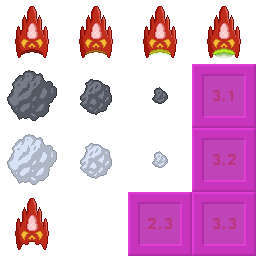
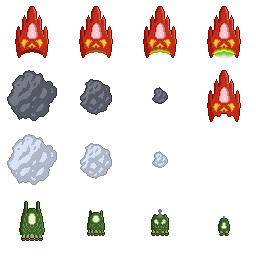
Partial implementation of targeting enemies

Changed region(s): [[0.5, 0.25, 1.0, 1.0], [0.0625, 0.7812, 0.1875, 0.9688], [0.3438, 0.8125, 0.4062, 0.9375]]

diff --git a/src/Game/Entities/Dynamic/Enemies/TargetingEnemy.java b/src/Game/Entities/Dynamic/Enemies/TargetingEnemy.java
@@ -1,0 +1,123 @@
+package Game.Entities.Dynamic.Enemies;
+
+import Game.Entities.Entity;
+import Game.Entities.EntityManager;
+
+public abstract class TargetingEnemy extends Enemy {
+// VARIABLES //
+    private static final double DEF_ROTATE_SPEED = 0.005 * Math.PI;
+
+    protected double rotationSpeed;
+    protected float distanceFromPlayer;
+    protected double directionToPlayer;
+
+
+// CONSTRUCTORS //
+    public TargetingEnemy(float x, float y, int w, int h, double direction) {
+        super(x, y, w, h, direction);
+        calcPlayerDistanceAndDirection();
+        rotationSpeed = DEF_ROTATE_SPEED;
+    }
+
+    public TargetingEnemy(float x, float y, int w, int h, double direction, double rotateSpeed) {
+        super(x, y, w, h, direction);
+        calcPlayerDistanceAndDirection();
+        rotationSpeed = rotateSpeed;
+    }
+
+// METHODS //
+    @Override
+    public void update() {
+        calcPlayerDistanceAndDirection();
+        rotateToPlayer();
+        setMoveSpeeds();
+        rotateSprite();
+    }
+
+    @Override
+    public void collide(Entity ec) {
+
+    }
+
+    private void rotateToPlayer() {
+        if(this.direction > (2 * Math.PI)) this.direction -= (2 * Math.PI);
+
+        // Don't need to do calculations if neither entities have moved
+        if(directionToPlayer == this.direction) return;
+
+        if((directionToPlayer > this.direction && directionToPlayer - this.direction < Math.PI) || ((this.direction - directionToPlayer) > Math.PI)) {
+            if(this.direction + rotationSpeed > directionToPlayer && !((this.direction - directionToPlayer) > Math.PI)) {
+                this.direction = directionToPlayer;
+            }
+            else this.direction += rotationSpeed;
+        } else {
+            if (this.direction - rotationSpeed < directionToPlayer) {
+                this.direction = directionToPlayer;
+            }
+            else this.direction -= rotationSpeed;
+        }
+    }
+
+    private void calcPlayerDistanceAndDirection() {
+        float distance;
+        double newDir = 0;
+
+        // Define point variables for easier function designing
+        float P1x = this.getXpos();
+        float P1y = this.getYpos();
+        float P2x = 0;
+        float P2y = 0;
+
+        if (EntityManager.get().getPlayer() != null) {
+            P2x = EntityManager.get().getPlayer().getXpos() + EntityManager.get().getPlayer().getWidth() / 2;
+            P2y = EntityManager.get().getPlayer().getYpos() + EntityManager.get().getPlayer().getHeight() / 2;
+        } else {
+            this.distanceFromPlayer = 1000;
+            return;
+        }
+
+        // Determine right-angled-triangle's opposite and adjacent lengths
+        float triangleX = Math.abs(P2x - P1x);
+        float triangleY = Math.abs(P2y - P1y);
+
+        // Calculate Hypotenuse (Distance from Player)
+        distance = (float) Math.sqrt((triangleX * triangleX) + (triangleY * triangleY));
+
+        // Set Distance
+        this.distanceFromPlayer = distance;
+
+        // Calculate Direction // --------------------------------------------------- //
+
+        // In the event tx = 0, don't do calculations
+        if(triangleX == 0) {
+            if(P1y > P2y) {
+                this.direction = Math.PI / 2;
+                return;
+            }
+            else {
+                this.direction = (3*Math.PI) / 2;
+                return;
+            }
+        }
+
+        // tan(theta) = (ty / tx), so theta = inversetan(ty / tx)
+        double theta = Math.atan(triangleY / triangleX);
+
+        // Determine direction depending on P1's location
+        if(P1x > P2x && P1y < P2y) { // Quadrant 1
+            newDir = Math.PI + theta;
+        }
+        else if(P1x < P2x && P1y < P2y) { // Quadrant 2
+            newDir = (2 * Math.PI) - theta;
+        }
+        else if(P1x < P2x && P1y > P2y) { // Quadrant 3
+            newDir = theta;
+        }
+        else if(P1x > P2x && P1y > P2y) { // Quadrant 4
+            newDir = Math.PI - theta;
+        }
+
+        // Set Direction
+        directionToPlayer = newDir;
+    }
+}

diff --git a/src/Game/Entities/EnemyDirector.java b/src/Game/Entities/EnemyDirector.java
@@ -3,6 +3,7 @@ package Game.Entities;
 import Game.Entities.Dynamic.DynamicEntity;
 import Game.Entities.Dynamic.Enemies.Asteroid;
 import Game.Entities.Dynamic.Enemies.Enemy;
+import Game.Entities.Dynamic.Enemies.GoblinPawn;
 import Game.Game;
 import Game.Data.Settings;
 import Game.Timer.*;
@@ -101,7 +102,7 @@ public class EnemyDirector implements iCanHaveCodeTimer, iCanHaveEnemyTimer {
         switch (code) {
             // LVL+ is the code for Start Next Level
             case "LVL+":
-                gameLevel++; // Increment Level
+                gameLevel+=5; // Increment Level
                 populateEnemies(); // Spawn Enemies
                 break;
         }
@@ -166,6 +167,16 @@ public class EnemyDirector implements iCanHaveCodeTimer, iCanHaveEnemyTimer {
                     spawn_queue.add(EnemyDirector.generateEnemyPosition(new Asteroid(0, 0, 3, 0, 2, true), Asteroid.DEFAULT_SIZE));
                     spawn_queue.add(EnemyDirector.generateEnemyPosition(new Asteroid(0, 0, 2, 0, 2, true), Asteroid.DEFAULT_SIZE));
                     spawn_queue.add(EnemyDirector.generateEnemyPosition(new Asteroid(0, 0, 1, 0, 3, true), Asteroid.DEFAULT_SIZE));
+                }
+                Collections.shuffle(spawn_queue);
+
+                spawn_queue_minsec = 45;
+                spawn_queue_maxsec = 3*60+30;
+                break;
+
+            case 5: // Level 5 //
+                for(int i = 0; i < 1; i++) {
+                    spawn_queue.add(EnemyDirector.generateEnemyPosition(new GoblinPawn(0, 0, 2), 64));
                 }
                 Collections.shuffle(spawn_queue);
 

diff --git a/src/Game/Entities/Dynamic/Enemies/GoblinPawn.java b/src/Game/Entities/Dynamic/Enemies/GoblinPawn.java
@@ -1,0 +1,43 @@
+package Game.Entities.Dynamic.Enemies;
+
+import Game.Data.Settings;
+import Game.Display.Assets.AssetManager;
+import Game.Entities.iOutOfBounds;
+
+public class GoblinPawn extends TargetingEnemy implements iOutOfBounds {
+// VARIABLES //
+    private static final int PLAYER_STOP_DISTANCE = 200;
+    private static final int GOBLIN_PAWN_MOVE_SPEED = 2;
+    private static final int OFFSCREEN_BOUNDARY = -64;
+
+// CONSTRUCTORS //
+    public GoblinPawn(float x, float y, double direction) {
+        super(x, y, 64, 64, direction);
+        img = AssetManager.get().getSprite(1, 0, 3);
+        moveSpeed = GOBLIN_PAWN_MOVE_SPEED;
+    }
+
+// METHODS //
+    @Override
+    public void update() {
+        super.update();
+        if(distanceFromPlayer > PLAYER_STOP_DISTANCE || checkOOB()) move();
+    }
+
+    @Override
+    public boolean checkOOB() {
+        if(     xpos <= -OFFSCREEN_BOUNDARY ||
+                ypos <= -OFFSCREEN_BOUNDARY ||
+                xpos >= Settings.game_width + OFFSCREEN_BOUNDARY ||
+                ypos >= Settings.game_height + OFFSCREEN_BOUNDARY) {
+            return true;
+        }
+
+        return false;
+    }
+
+    @Override
+    public void doWhenOutOfBounds() {
+
+    }
+}

diff --git a/src/Game/Entities/Dynamic/Enemies/Asteroid.java b/src/Game/Entities/Dynamic/Enemies/Asteroid.java
@@ -151,6 +151,7 @@ public class Asteroid extends Enemy implements iVulnerable, iOutOfBounds {
             else EntityManager.get().subscribe(new AsteroidParticleWhite(this, ((i * 2 * Math.PI) /(particNum)), level));
         }
     }
+
     @Override
     public boolean checkOOB() {
         if(     xpos <= -OFFSCREEN_BOUNDARY ||
